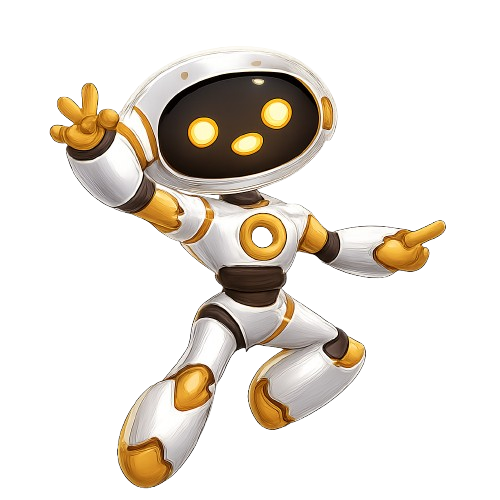
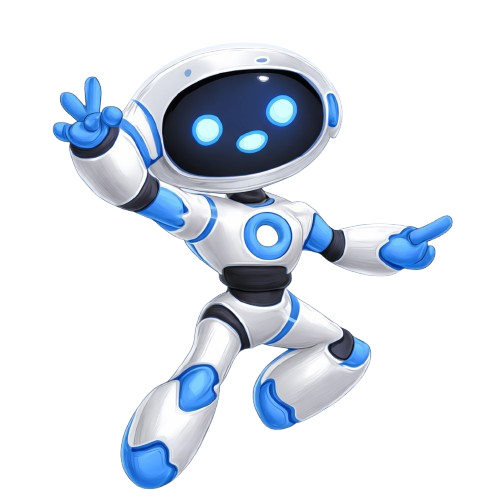
Alterado cores principais para azul e imagem do bot

Changed region(s): [[0.09, 0.09, 0.93, 0.99]]

diff --git a/src/styles/styles.css b/src/styles/styles.css
@@ -6,15 +6,13 @@
 @import url('footer.css');
 
 :root {
-    --color-primary-1: #fff9ea;
-    --color-primary-2: #ffe8b4;
-    --color-primary-3: #f8d477;
-    --color-primary-4: #ffe100;
-    --color-primary-5: #ffcb45;
-    --color-primary-6: #e9a209;
+  --color-primary-1: #e8f1ff;
+  --color-primary-2: #cfe2ff;
+  --color-primary-3: #9ec5fe;
+  --color-primary-4: #5b9bff;
 
-    --color-neutral-0: #fff;
-    --color-neutral-1: #1d1d1d;
+  --color-neutral-0: #ffffff;
+  --color-neutral-1: #000000;
 }
 
 * {
@@ -41,7 +39,7 @@ section {
     display: flex;
     align-items: center;
     justify-content: center;
-    background-color: var(--color-primary-5);
+    background-color: var(--color-primary-4);
     border-radius: 12px;
     padding: 10px 14px;
     font-weight: 600;
@@ -79,7 +77,7 @@ section {
 }
 
 .section-title {
-    color: var(--color-primary-6);
+    color: var(--color-primary-4);
     font-size: 1.563rem;
 }
 

diff --git a/index.html b/index.html
@@ -19,12 +19,12 @@
       referrerpolicy="no-referrer"
     ></script>
     <script src="https://unpkg.com/scrollreveal"></script>
-    <title>Nutri AI</title>
+    <title>Clini AI</title>
   </head>
   <body>
     <header>
       <nav id="navbar">
-        <i class="fa-solid fa-burger" id="nav_logo"> Nutri AI</i>
+        <i class="fa-solid fa-burger" id="nav_logo"> Clini AI</i>
 
         <ul id="nav_list">
           <li class="nav-item active">
@@ -259,7 +259,7 @@ Tudo de forma simples, rápida e inteligente.
     </main>
 
     <footer>
-      <img src="src/images/wave.svg" alt="" />
+      <img class="wave" src="src/images/wave.svg" alt="" />
 
       <div id="footer_items">
         <span id="copyright"> &copy 2026 Jackson Silva </span>

diff --git a/src/styles/menu.css b/src/styles/menu.css
@@ -30,7 +30,7 @@
 
 .dish-heart {
     position: absolute;
-    background-color: var(--color-primary-6);
+    background-color: var(--color-primary-4);
     display: flex;
     align-items: center;
     justify-content: center;
@@ -49,7 +49,7 @@
 }
 
 .dish-rate i {
-    color: var(--color-primary-6);
+    color: var(--color-primary-4);
 }
 
 .dish-price {

diff --git a/src/styles/header.css b/src/styles/header.css
@@ -16,7 +16,7 @@ header {
 
 #nav_logo {
     font-size: 24px;
-    color: var(--color-primary-6);
+    color: var(--color-primary-4);
 }
 
 #nav_list {

diff --git a/src/styles/home.css b/src/styles/home.css
@@ -18,7 +18,7 @@
 }
 
 #cta .title span {
-    color: var(--color-primary-6);
+    color: var(--color-primary-4);
 }
 
 #cta .description {

diff --git a/src/styles/footer.css b/src/styles/footer.css
@@ -20,3 +20,7 @@ footer {
         gap: 20px;
     }
 }
+
+.wave {
+    width: 100%;
+}
